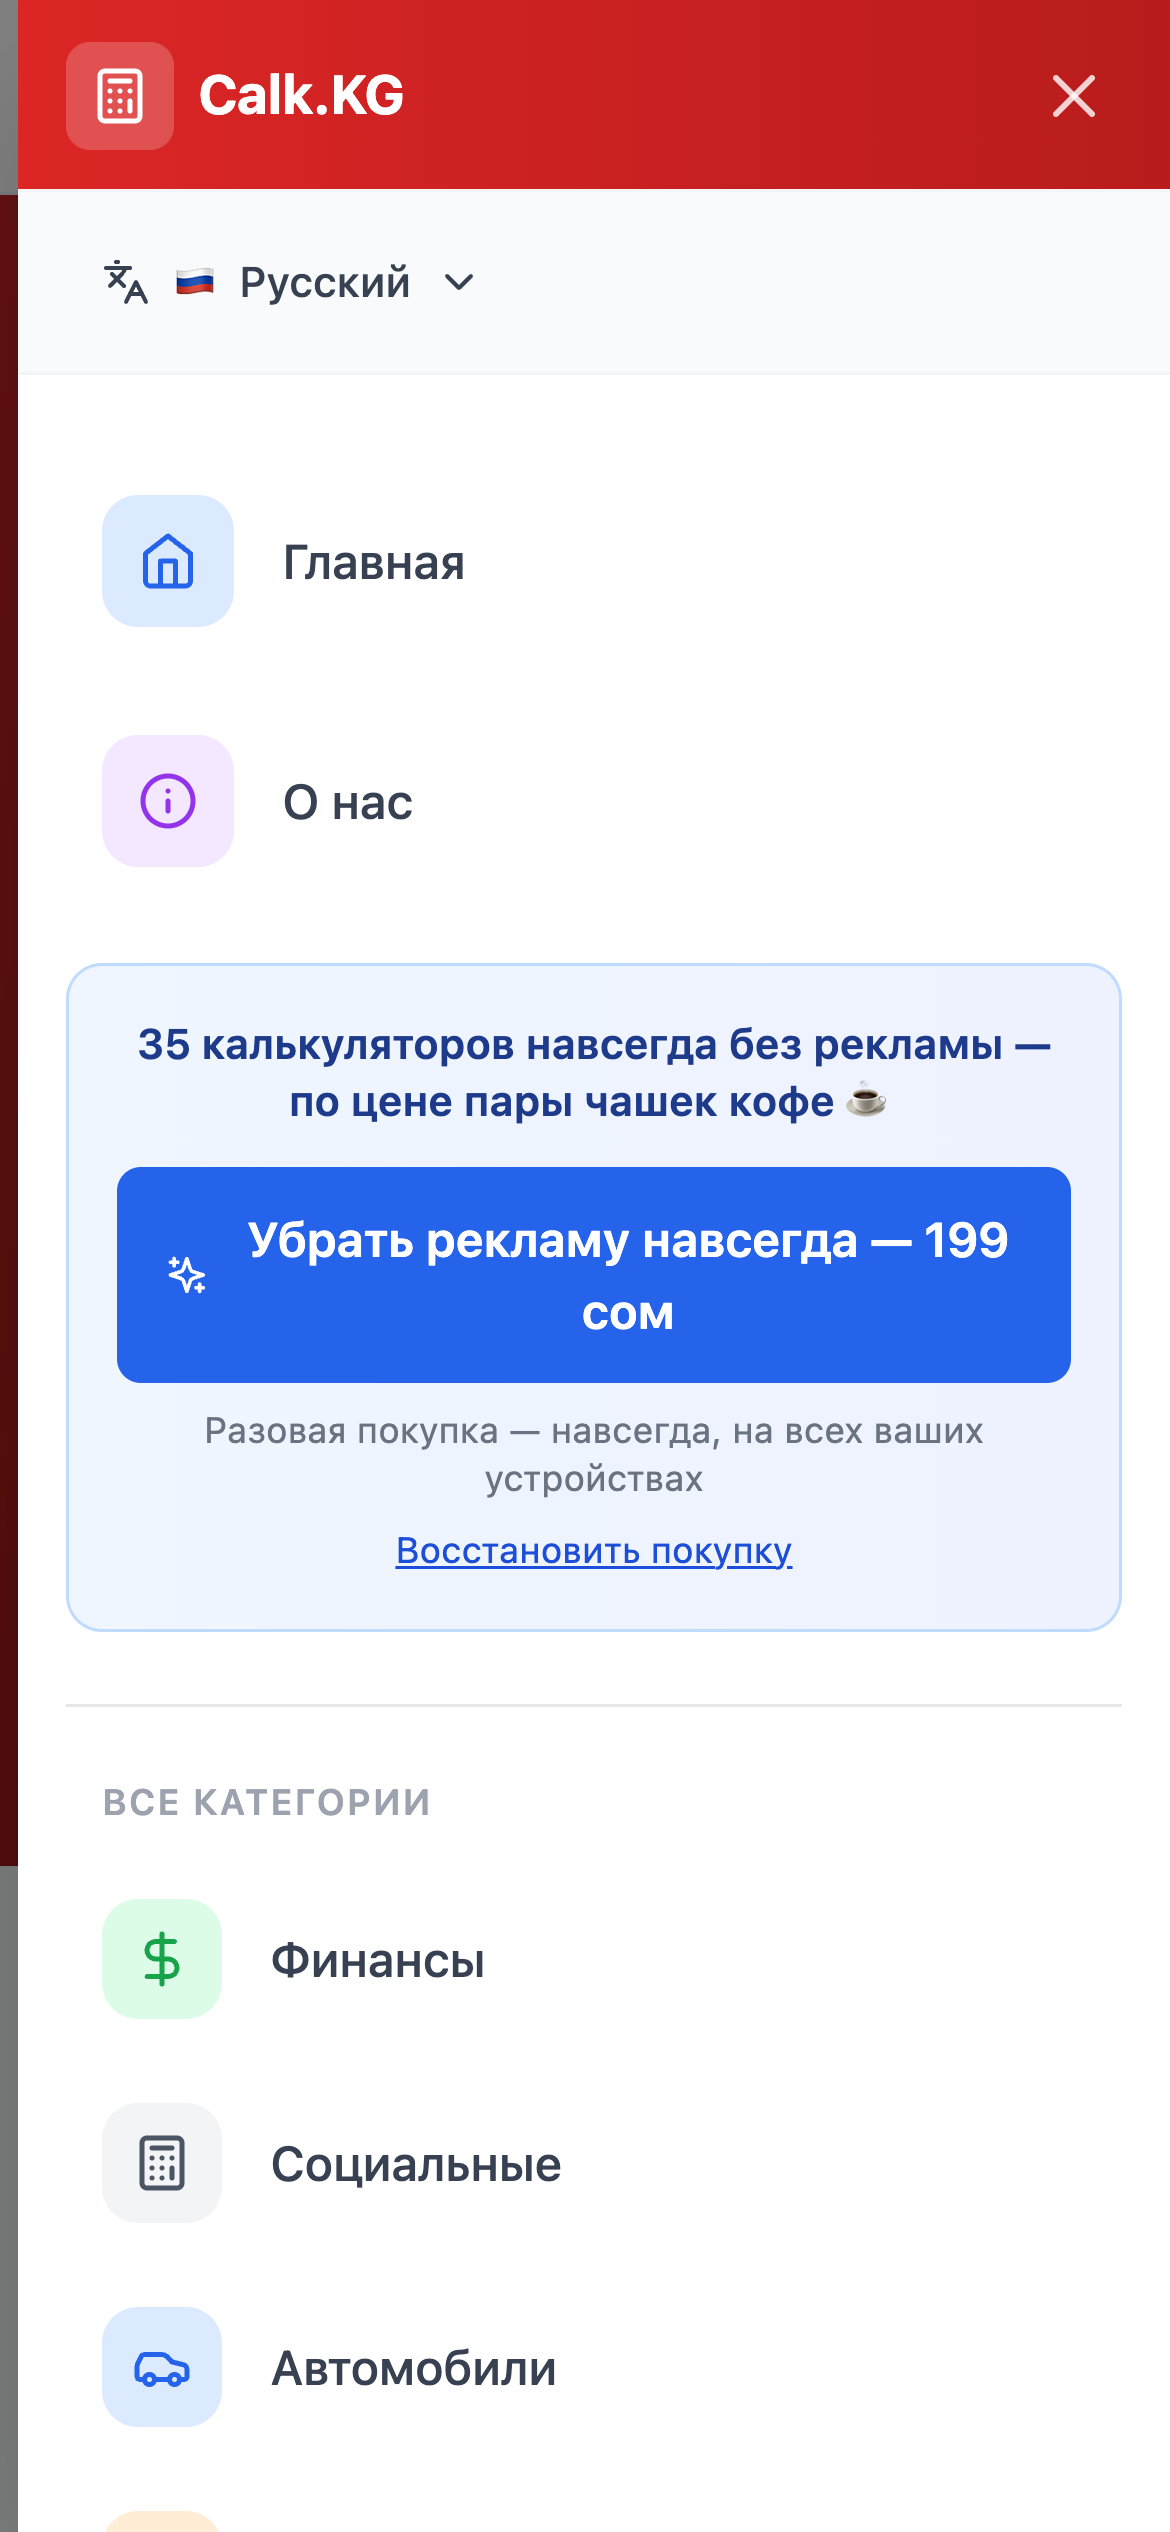
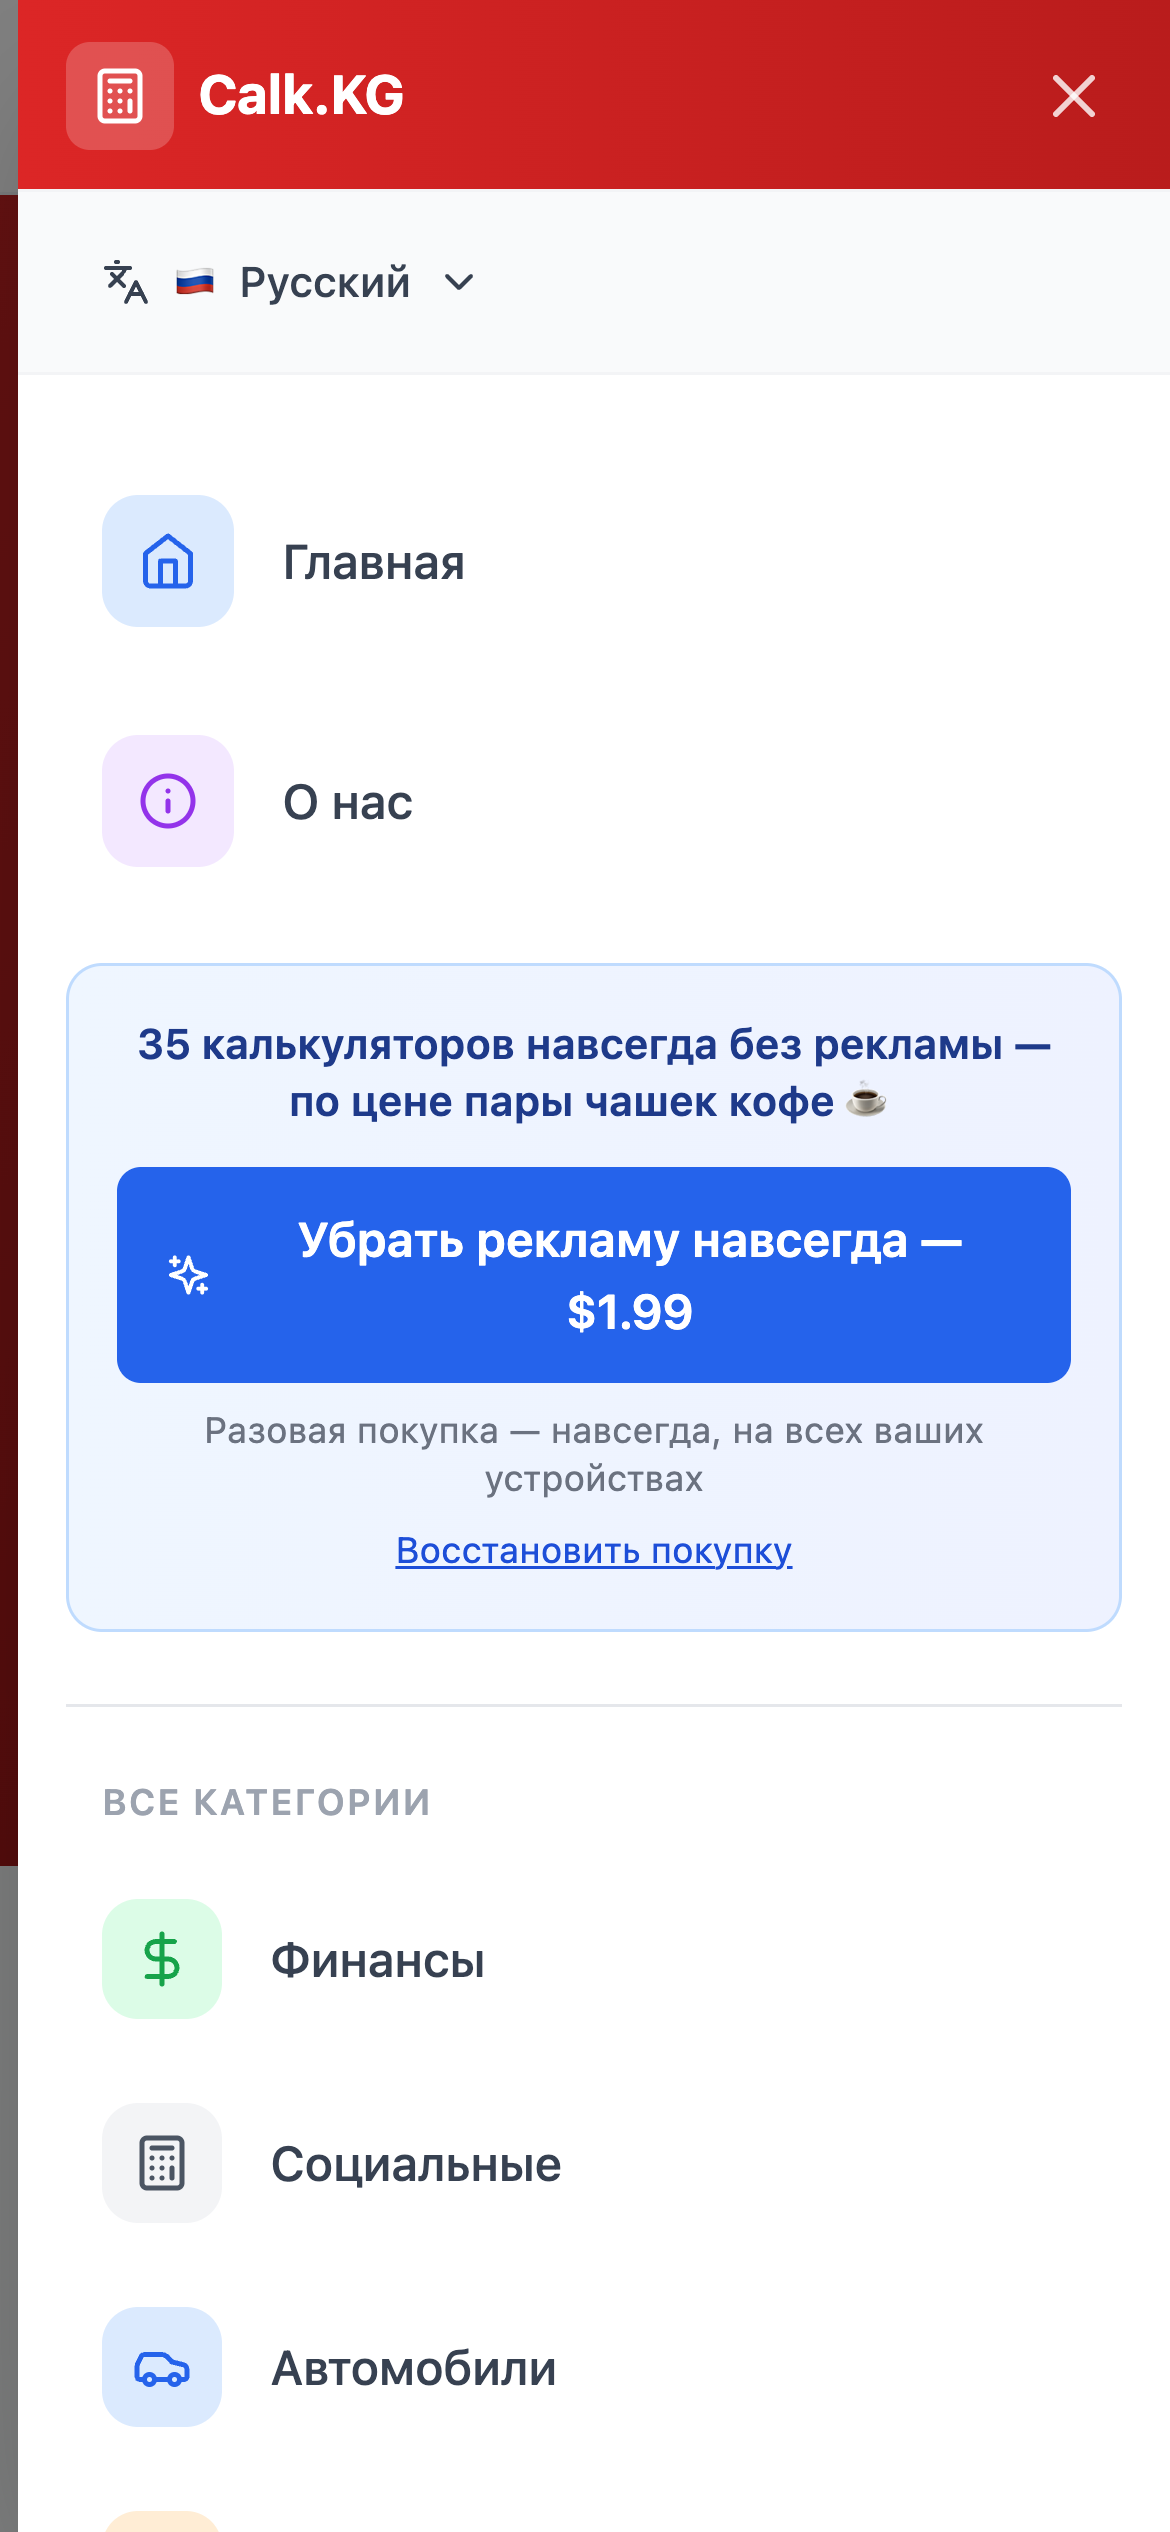
IAP: RevenueCat настроен (ad_free ↔ removeads_KG/removeads_kg), скриншот ревью под $1.99
- docs/IAP-SETUP.md: зафиксированы app id/bundle обеих платформ, entitlement,
  проверка публичных SDK-ключей, почему offerings не нужны, что значит
  «Missing Metadata» у продукта App Store.
- Скриншот для App Store Connect → Review Information переснят: цена 1,99 USD
  (сома нет в списке валют Play, стор конвертирует сам).

Changed region(s): [[0.2154, 0.468, 0.8615, 0.5304], [0.1538, 0.4992, 0.1846, 0.5304]]

diff --git a/docs/iap-review/README.md b/docs/iap-review/README.md
@@ -2,8 +2,9 @@
 
 `iap-removeads-ru.png` — для App Store Connect → покупка `removeads_KG` →
 Review Information → Screenshot. 1170×2532 (390×844 @3x). Видны кнопка
-«Убрать рекламу навсегда — 199 сом», подпись про разовую покупку и
-обязательная кнопка «Восстановить покупку».
+«Убрать рекламу навсегда — $1.99», подпись про разовую покупку и
+обязательная кнопка «Восстановить покупку». Пересняли 16.08.2026 под цену
+1,99 USD (в сомах Play цену задать нельзя — валюты нет в списке).
 
 ## Как переснять
 
